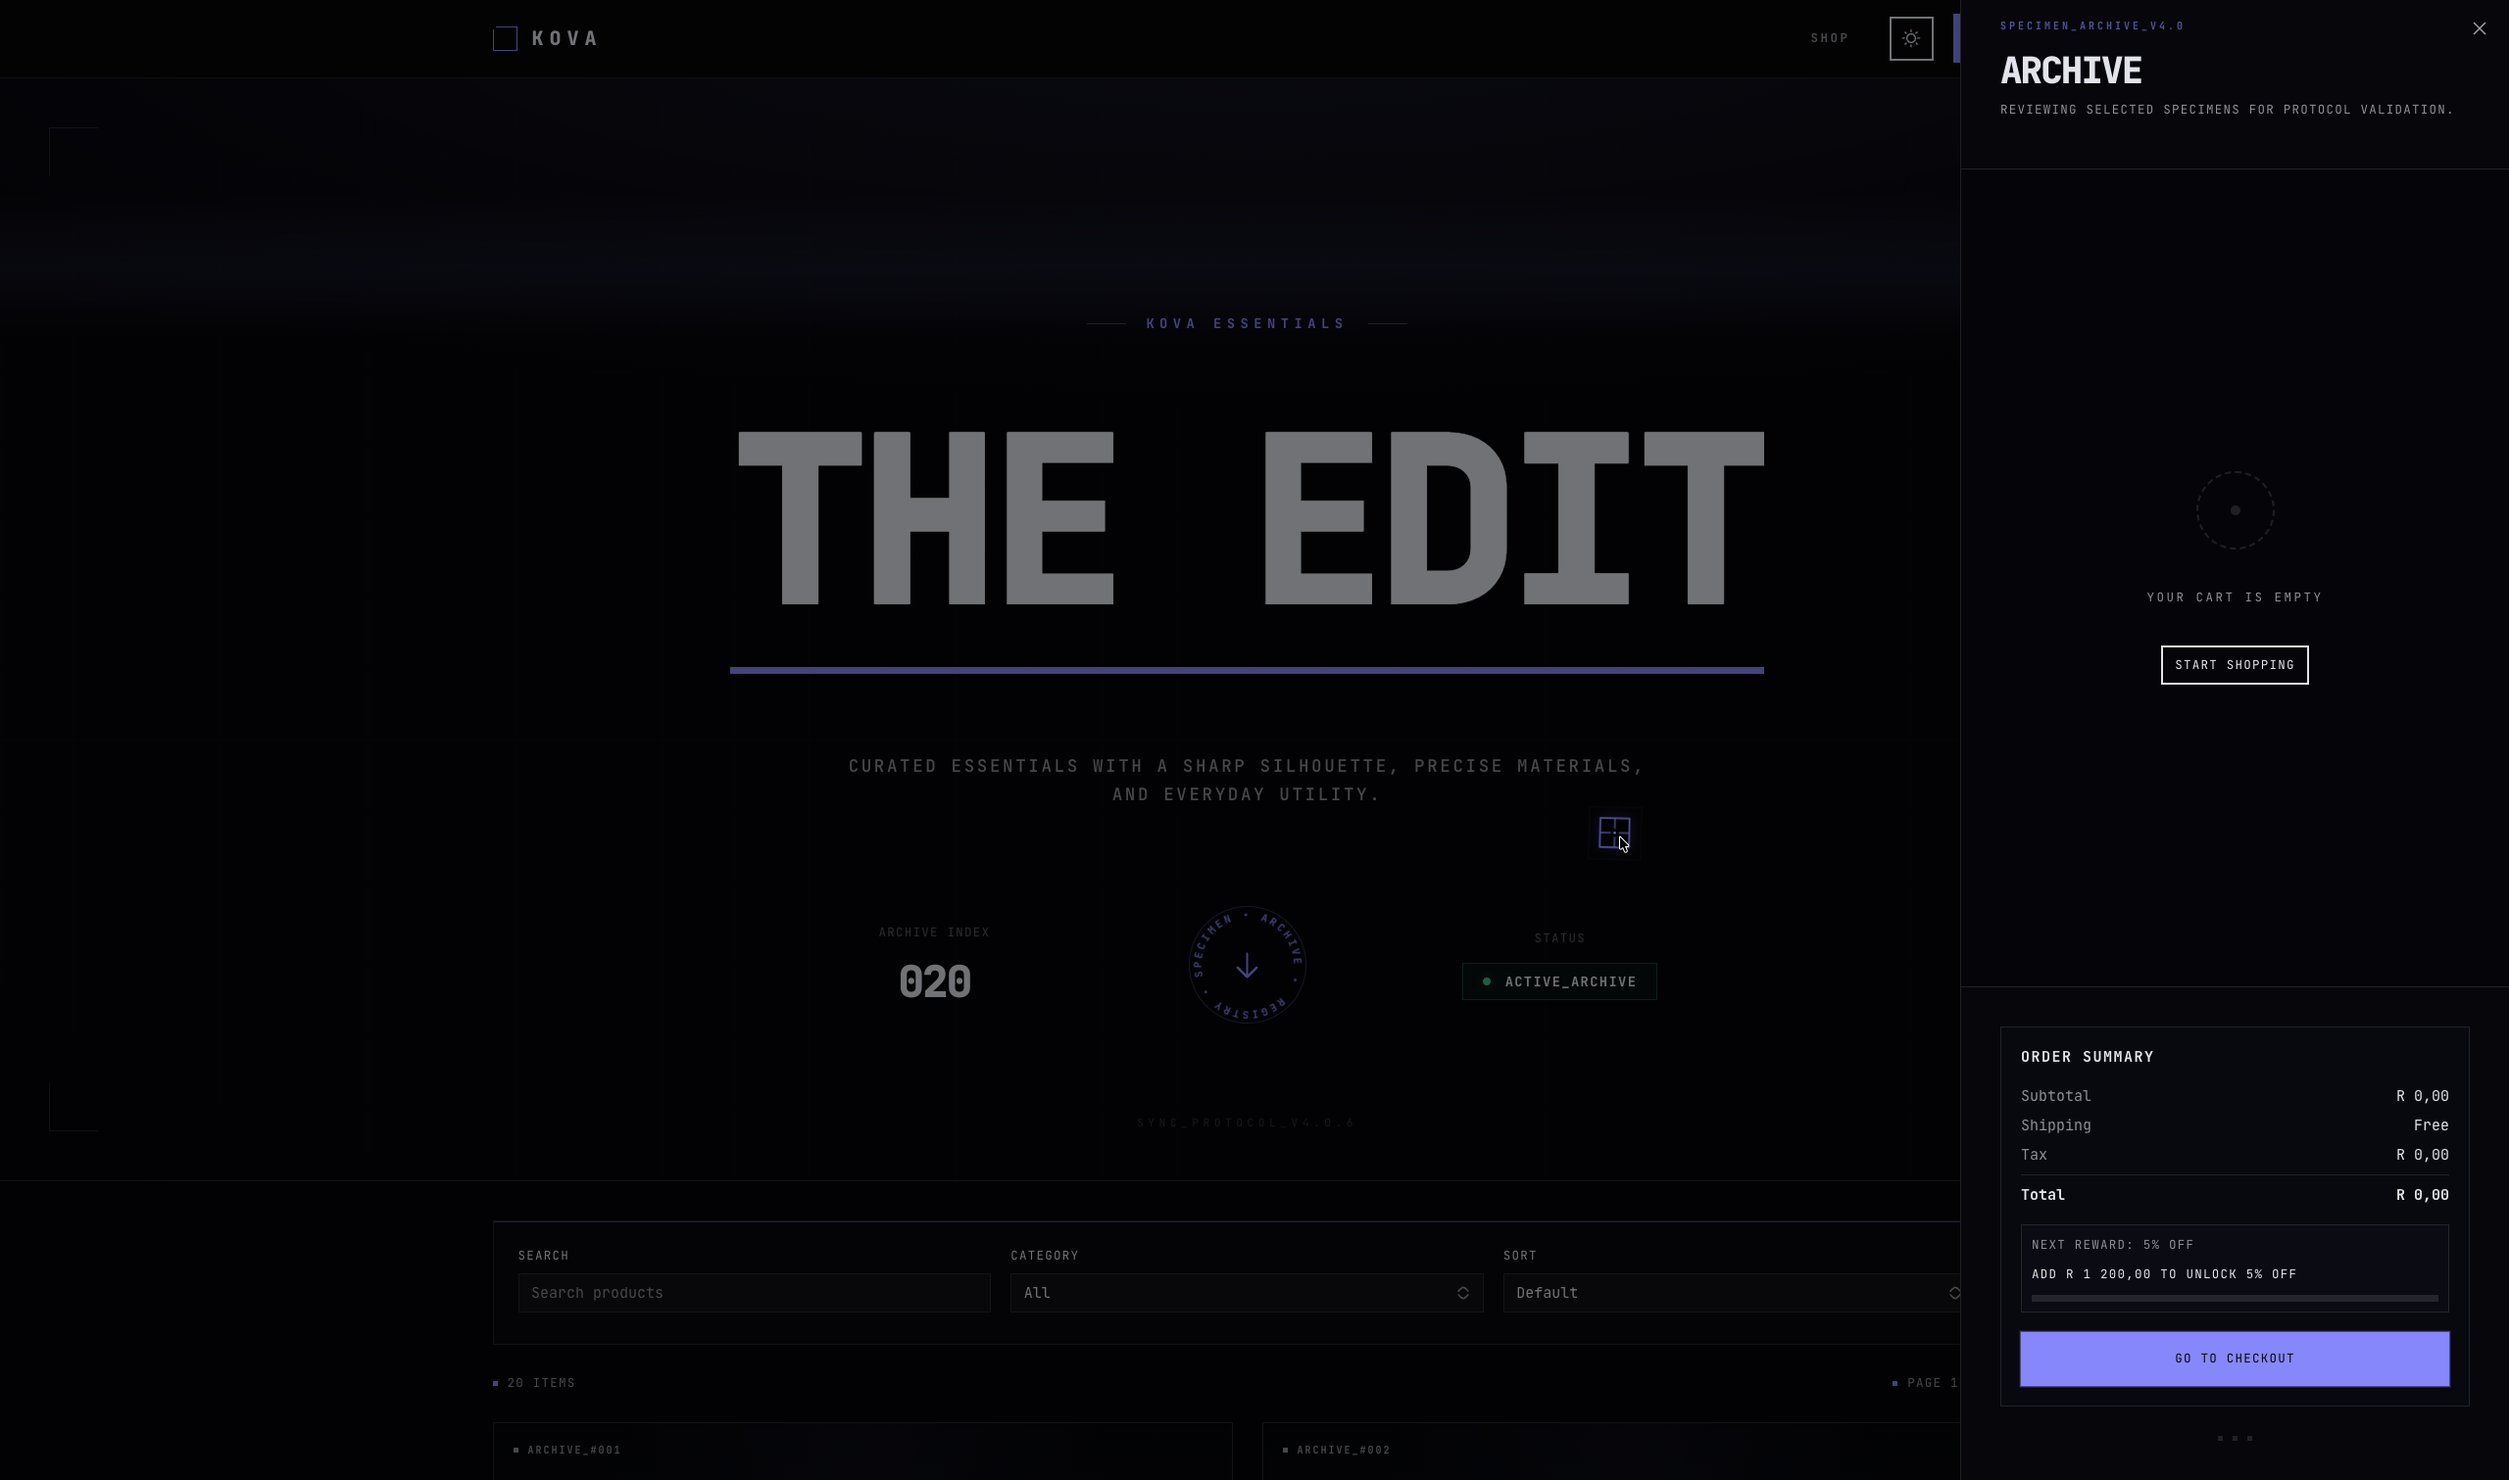
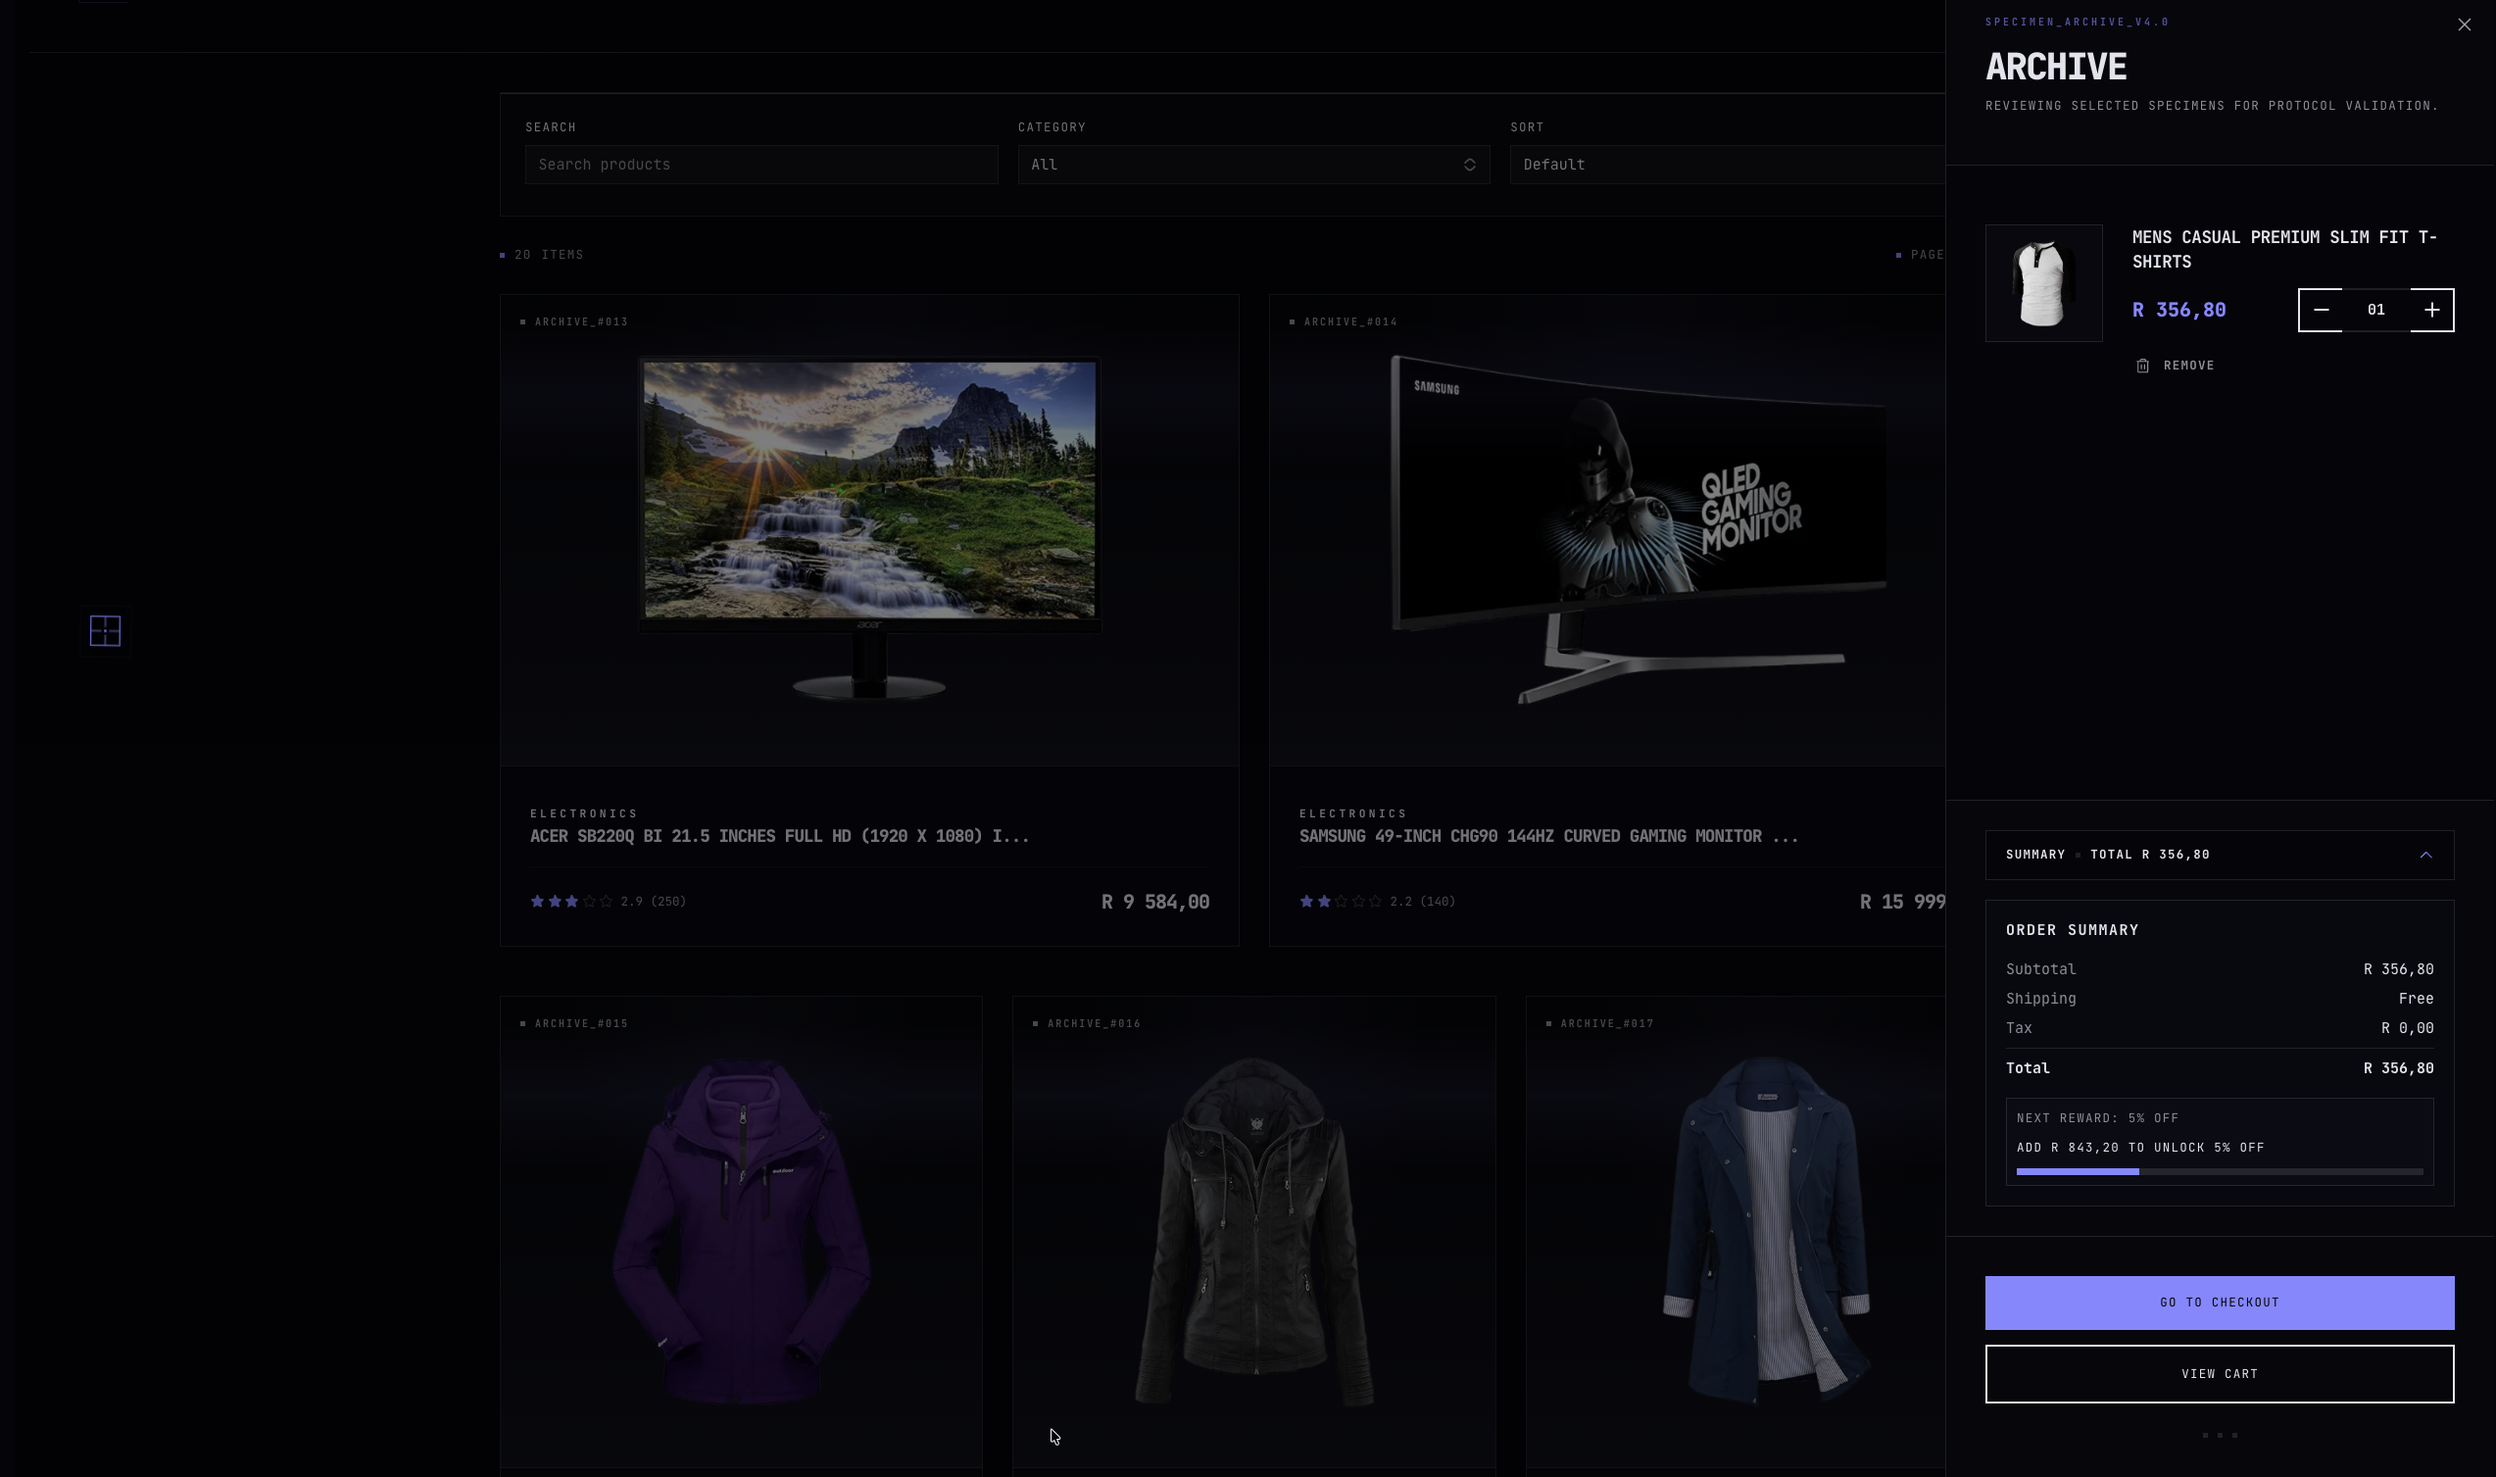
docs(readme): refresh performance narrative and screenshot set

diff --git a/README.md b/README.md
@@ -338,19 +338,36 @@ The flow below demonstrates both ends of the sandbox journey: hosted Stripe chec
 
 Storefront UX quality is tightly coupled to performance and intent-based loading.
 
-### Lighthouse evidence after optimization pass
+### Lighthouse benchmark (latest run)
 
-Recent optimization work raised Lighthouse outcomes on the product-detail flow, including a 100 SEO score in the audited run.
+In the latest landing-page audit, KOVA reached a full Lighthouse score:
 
-![Lighthouse Product Detail Optimization](./docs/screenshots/lighthouse-product-detail-optimization.png)
+- Performance: 100
+- Accessibility: 100
+- Best Practices: 100
+- SEO: 100
+
+We treat this as a benchmark snapshot and continue tuning from there as features evolve.
+
+![Lighthouse 100 Across All Categories](./docs/screenshots/lighthouse-landing-perfect-100.png)
+
+### Progressive rendering architecture
+
+KOVA uses a Server-Side Rendering (SSR) first architecture with progressive region loading on the landing page.
+
+- The initial document renders core structure and above-the-fold context immediately.
+- High-priority UI surfaces (layout shell and hero) are shown first.
+- Product-heavy regions resolve progressively with stable placeholders, reducing visual instability while data is loading.
+- Query prewarming and intent-based prefetch improve continuity when moving from listing to product detail pages.
+
+This follows Partial Prerendering (PPR) principles: prioritize immediate rendering of the critical path, then progressively resolve secondary regions as data becomes available.
+
+![Homepage Progressive Loading State](./docs/screenshots/home-progressive-rendering.png)
 
 ### Prefetch and route readiness
 
-- Route loaders pre-warm data with `ensureQueryData`:
-  - `src/routes/index.tsx`
-  - `src/routes/products/$productId.tsx`
-- Product-card intent handlers prefetch detail data on hover/focus:
-  - `src/entities/product/model/useProductCardPrefetch.ts`
+- Product-detail navigation is pre-warmed so transitions feel immediate.
+- Product-card intent handlers prefetch detail data on hover/focus.
 
 ### Query caching strategy
 
@@ -438,6 +455,20 @@ Key files:
 - `src/entities/order/lib/buildCheckoutLineItems.ts`
 
 The goal is simple: reduce purchase hesitation by making progress visible and actionable.
+
+### Reward visibility at checkout decision points
+
+Gamification is most effective when shoppers can see progress at the exact moment they decide whether to continue browsing or checkout.
+
+In the cart-sheet flow:
+
+- Reward and summary details are visible by default so progress context is immediate.
+- Shoppers can collapse details when they want a cleaner view.
+- `Go To Checkout` remains visible at all times, even when summary details are collapsed.
+
+This keeps reward momentum visible while preserving a clear path to purchase.
+
+![Landing - Dark with Cart Sheet](./docs/screenshots/landing-dark-cart-sheet.png)
 
 ## Motion and interaction language
 
@@ -542,8 +573,6 @@ Most screenshots are grouped here to keep the documentation readable while still
 ### Landing and catalog
 
 ![Landing - Dark](./docs/screenshots/home-dark-products.png)
-
-![Landing - Dark with Cart Sheet](./docs/screenshots/landing-dark-cart-sheet.png)
 
 ![Catalog - Mobile Light](./docs/screenshots/home-mobile-light.png)
 
